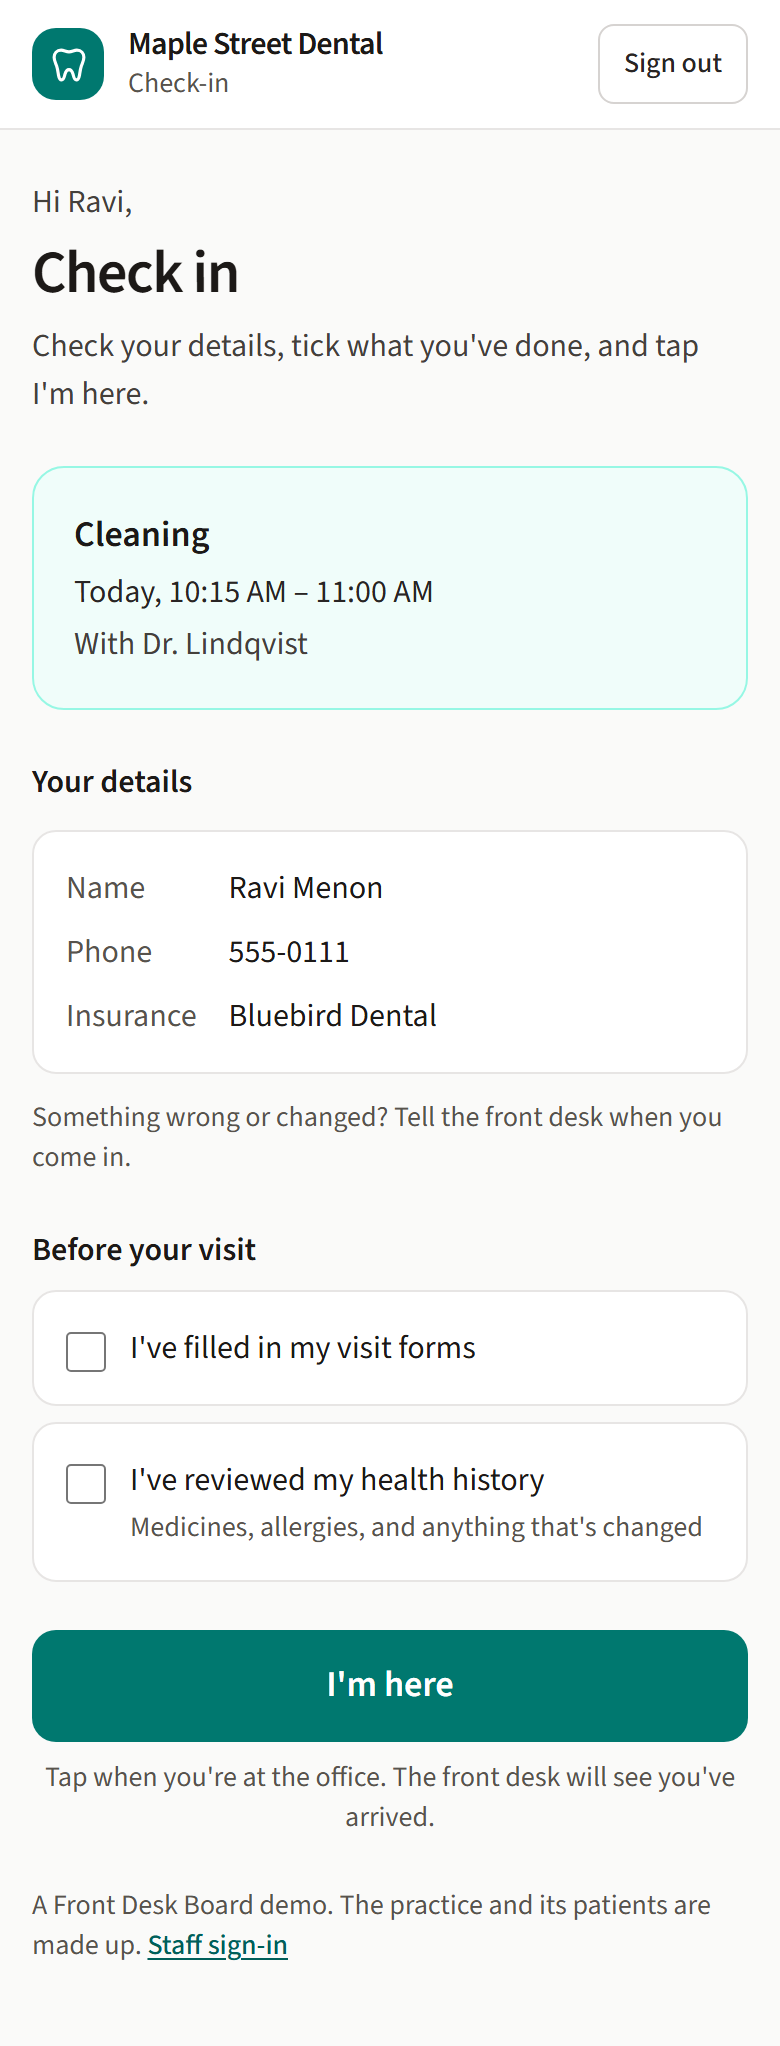
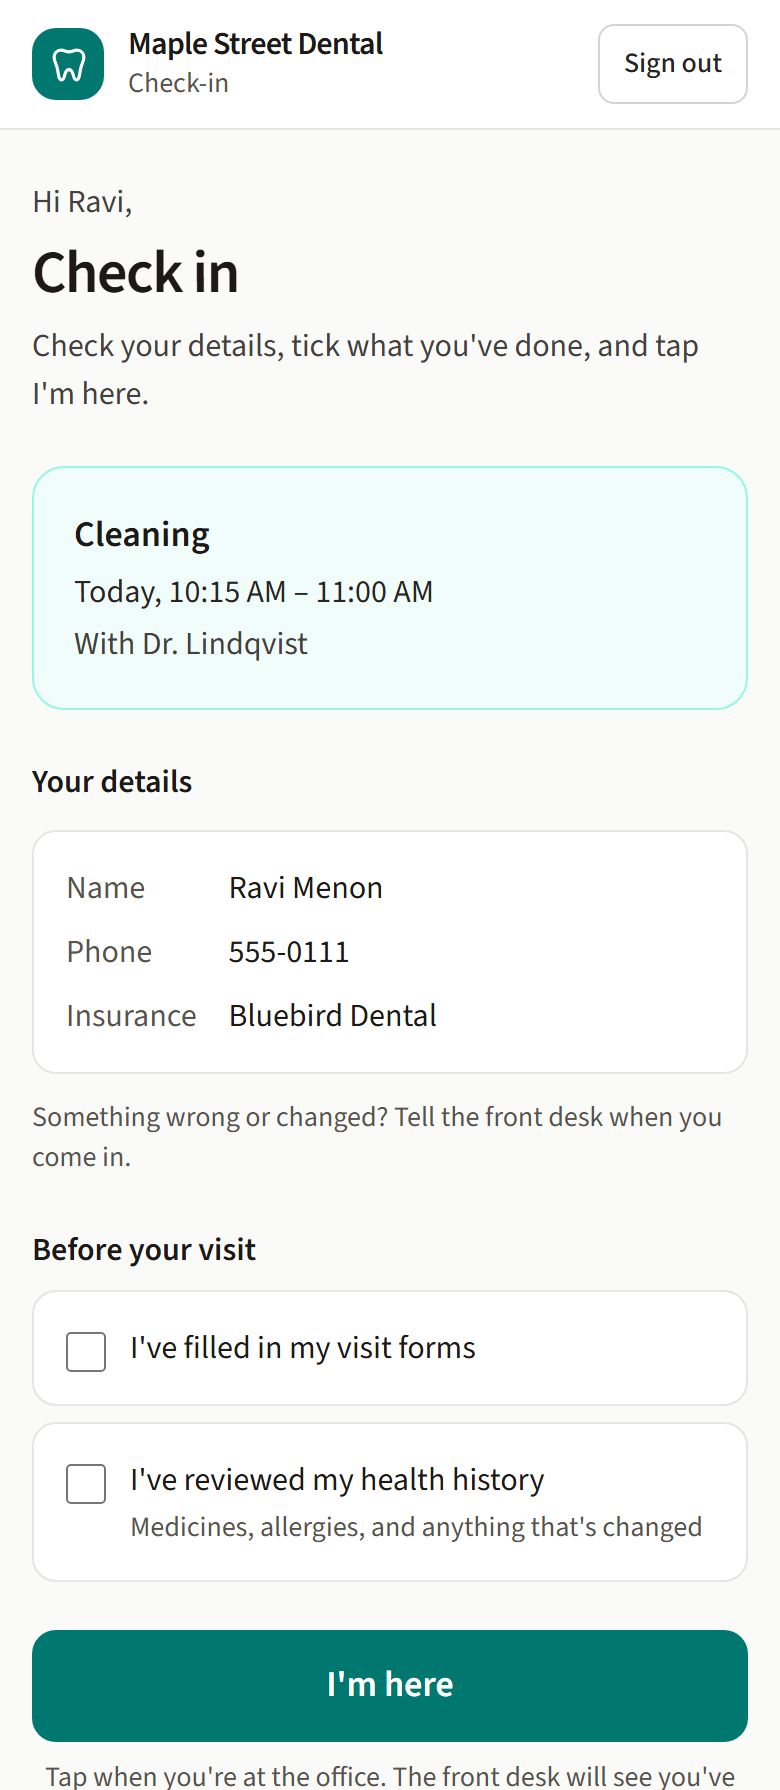
README: size the AI and phone screenshots side by side
The phone shot made its table row very tall and shrank the AI shot.
Use sized images at equal heights, and crop the phone shot just below
the I'm here button.

diff --git a/README.md b/README.md
@@ -50,9 +50,12 @@ TanStack Query, and tested with Vitest, Playwright and axe.
 The [guided tour](docs/TOUR.md) covers roles, cancelling, no-shows, patient check-in
 from a phone, and the error states, and lists every [demo patient login](docs/TOUR.md).
 
-| AI booking assist                                                                                                                                                           | Patient check-in on a phone                                                                                                            |
-| --------------------------------------------------------------------------------------------------------------------------------------------------------------------------- | -------------------------------------------------------------------------------------------------------------------------------------- |
-| ![The New appointment panel in dark mode: the AI filled in patient, visit type, length, chair and time of day, and three open times are offered](docs/images/ai-assist.png) | ![A patient's phone check-in page: visit details, two checklist items, and an I'm here button](docs/images/patient-check-in-phone.png) |
+<p>
+  <img src="docs/images/ai-assist.png" width="76%" alt="The New appointment panel in dark mode: the AI filled in patient, visit type, length, chair and time of day, and three open times are offered">
+  <img src="docs/images/patient-check-in-phone.png" width="21%" alt="A patient's phone check-in page: visit details, two checklist items, and an I'm here button">
+</p>
+
+_Left: the AI assist fills in the form, and the slot finder offers times. Right: a patient checks in from their phone._
 
 | Patient flow                                                                                                 | Dark mode                                                |
 | ------------------------------------------------------------------------------------------------------------ | -------------------------------------------------------- |
